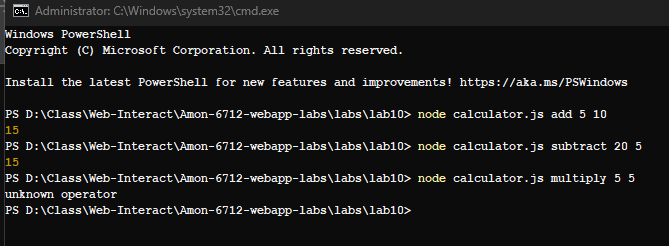
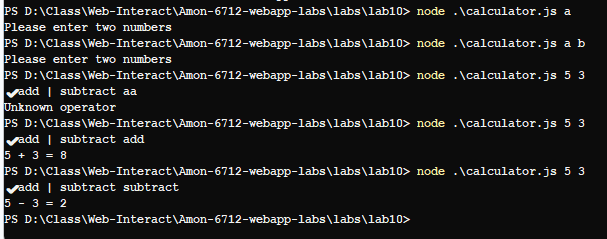
lab10p1

Changed region(s): [[0.0, 0.0, 0.9786, 1.0]]

diff --git a/labs/lab10/calculator.js b/labs/lab10/calculator.js
@@ -1,22 +1,30 @@
+const readline = require('readline');
 
 const args = process.argv.slice(2);
-const operator = args[0];
 
-if (operator !== 'add' && operator !== 'subtract') {
-    console.log("unknown operator");
+if (args.length < 2 || isNaN(args[0]) || isNaN(args[1])) {
+    console.log("Please enter two numbers");
     process.exit(1);
 }
 
-const num1 = Number(args[1]);
-const num2 = Number(args[2]);
+const num1 = Number(args[0]);
+const num2 = Number(args[1]);
 
-if (args[1] === undefined || args[2] === undefined || isNaN(num1) || isNaN(num2)) {
-    console.log("Please enter numbers");
-    process.exit(1);
-}
+const rl = readline.createInterface({
+    input: process.stdin,
+    output: process.stdout
+});
 
-if (operator === 'add') {
-    console.log(num1 + num2);
-} else if (operator === 'subtract') {
-    console.log(num1 - num2);
-}
+rl.question('\u2714 add | subtract ', (input) => {
+    const operator = input.trim();
+
+    if (operator === 'add') {
+        console.log(`${num1} + ${num2} = ${num1 + num2}`);
+    } else if (operator === 'subtract') {
+        console.log(`${num1} - ${num2} = ${num1 - num2}`);
+    } else {
+        console.log("Unknown operator");
+    }
+    
+    rl.close();
+});
